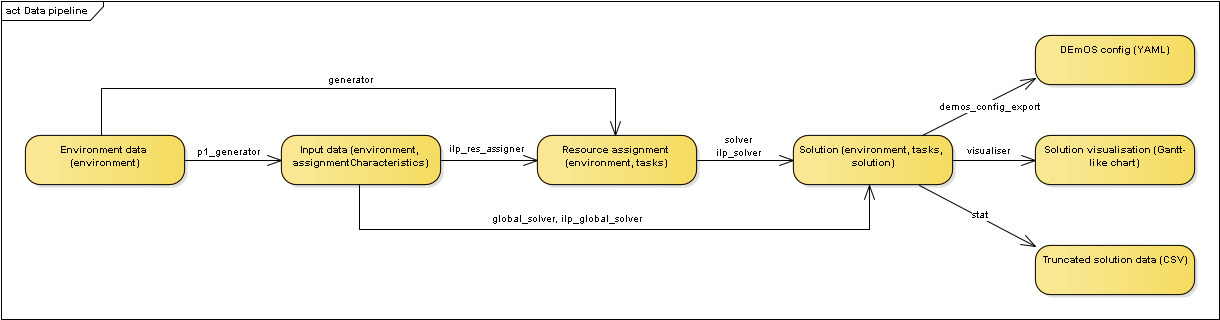
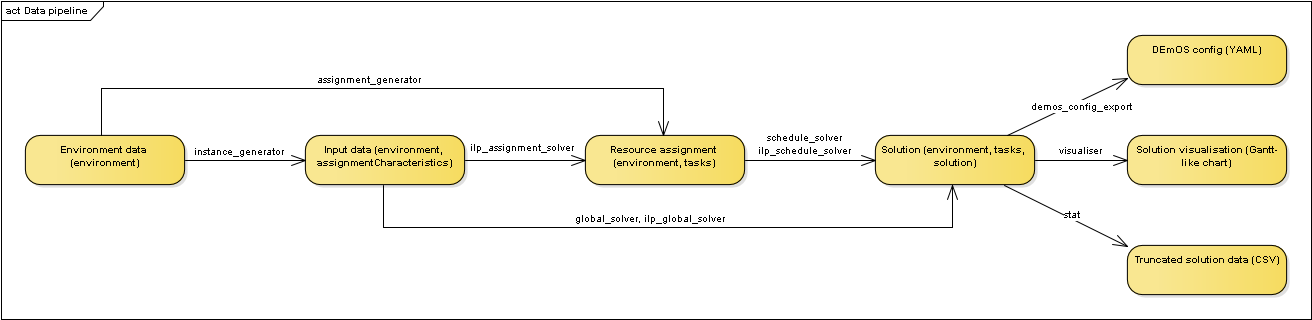
changed tool naming

diff --git a/tools/src/instance_generator/main.cpp b/tools/src/instance_generator/main.cpp
@@ -1,8 +1,9 @@
 #include <iostream>
+#include <fstream>
 
 #include "../common/instance.h"
 #include "../common/arg_parser.h"
-#include "generator.h"
+#include "instance_generator.h"
 
 int main(int argc, char** argv)
 {
@@ -21,14 +22,34 @@ int main(int argc, char** argv)
 		std::cin >> json;
 	}
 
+	std::string benchmark_data_filename = args.get_arg_value("--benchmark-data");
+	if (benchmark_data_filename.empty())
+	{
+		std::cerr << "unable to continue: no benchmark data provided" << std::endl;
+		return EXIT_FAILURE;
+	}
+
+	std::ifstream benchmark_data_file(benchmark_data_filename);
+	if (!benchmark_data_file.is_open())
+	{
+		std::cerr << "unable to continue: cannot open benchmark data file" << std::endl;
+		return EXIT_FAILURE;
+	}
+
 	environment environment;
-	std::vector<task> tasks;
+	std::vector<assignment_characteristic> tasks;
 	try
 	{
 		environment = parse_environment(json);
-		generator g(args, environment);
+		auto benchmark_data = parse_benchmark_data(environment.processors, benchmark_data_file);
+		instance_generator g(args, environment, benchmark_data);
 		tasks = g.generate();
-		write_tasks(json, tasks);
+		write_assignment_characteristics(json, tasks);
+
+		if (!args.is_arg_present("--keep-environment-mf"))
+		{
+			json["environment"]["majorFrameLength"] = compute_major_frame_length(environment, tasks);
+		}
 	}
 	catch (const nlohmann::detail::parse_error& error)
 	{

diff --git a/tools/src/assignment_generator/main.cpp b/tools/src/assignment_generator/main.cpp
@@ -1,9 +1,8 @@
 #include <iostream>
-#include <fstream>
 
 #include "../common/instance.h"
 #include "../common/arg_parser.h"
-#include "p1_generator.h"
+#include "assignment_generator.h"
 
 int main(int argc, char** argv)
 {
@@ -22,34 +21,14 @@ int main(int argc, char** argv)
 		std::cin >> json;
 	}
 
-	std::string benchmark_data_filename = args.get_arg_value("--benchmark-data");
-	if (benchmark_data_filename.empty())
-	{
-		std::cerr << "unable to continue: no benchmark data provided" << std::endl;
-		return EXIT_FAILURE;
-	}
-
-	std::ifstream benchmark_data_file(benchmark_data_filename);
-	if (!benchmark_data_file.is_open())
-	{
-		std::cerr << "unable to continue: cannot open benchmark data file" << std::endl;
-		return EXIT_FAILURE;
-	}
-
 	environment environment;
-	std::vector<assignment_characteristic> tasks;
+	std::vector<task> tasks;
 	try
 	{
 		environment = parse_environment(json);
-		auto benchmark_data = parse_benchmark_data(environment.processors, benchmark_data_file);
-		p1_generator g(args, environment, benchmark_data);
+		assignment_generator g(args, environment);
 		tasks = g.generate();
-		write_assignment_characteristics(json, tasks);
-
-		if (!args.is_arg_present("--keep-environment-mf"))
-		{
-			json["environment"]["majorFrameLength"] = compute_major_frame_length(tasks);
-		}
+		write_tasks(json, tasks);
 	}
 	catch (const nlohmann::detail::parse_error& error)
 	{

diff --git a/tools/src/instance_generator/instance_generator.h b/tools/src/instance_generator/instance_generator.h
@@ -1,5 +1,5 @@
-#ifndef P1_GENERATOR_H
-#define P1_GENERATOR_H
+#ifndef INSTANCE_GENERATOR_H
+#define INSTANCE_GENERATOR_H
 
 #include <random>
 #include <array>
@@ -19,12 +19,12 @@ struct benchmark_data
 	std::unordered_map<std::string, std::unordered_map<std::string, std::string>> benchmark_commands;
 };
 
-class p1_generator
+class instance_generator
 {
 public:
 	std::vector<assignment_characteristic> generate() const;
 
-	p1_generator(const arg_parser& args, const environment& e, const benchmark_data& bd);
+	instance_generator(const arg_parser& args, const environment& e, const benchmark_data& bd);
 
 private:
 	const std::array<int, 2> m_supported_problem_versions{ 1, 2 };
@@ -32,8 +32,8 @@ private:
 	const environment& m_environment;
 	const benchmark_data& m_benchmark_data;
 
-	int m_min_length = 50, m_max_length = 150;
-	int m_task_count = 15;
+	int m_min_length = 40, m_max_length = 160;
+	int m_task_count = 20;
 };
 
 benchmark_data parse_benchmark_data(
@@ -43,4 +43,4 @@ benchmark_data parse_benchmark_data(
 
 int compute_major_frame_length(const environment& env, const std::vector<assignment_characteristic>& assignment_characteristics);
 
-#endif // P1_GENERATOR_H
+#endif // INSTANCE_GENERATOR_H

diff --git a/tools/src/instance_generator/instance_generator.cpp b/tools/src/instance_generator/instance_generator.cpp
@@ -5,7 +5,7 @@
 #include <cmath>
 #include <fstream>
 
-#include "p1_generator.h"
+#include "instance_generator.h"
 
 const static std::string affinity_keyword = "affinity";
 const static std::string benchmark_keyword = "benchmark";
@@ -49,9 +49,9 @@ static inline std::vector<std::string> split_string(std::string s, const std::st
 	return items;
 }
 
-p1_generator::p1_generator(const arg_parser& args,
-		                   const environment& e,
-		                   const benchmark_data& be)
+instance_generator::instance_generator(const arg_parser& args,
+		                  			   const environment& e,
+		                  			   const benchmark_data& be)
 	: m_environment(e), m_benchmark_data(be)
 {
 	args.set_arg_value_int("--min-length", &this->m_min_length);
@@ -67,7 +67,7 @@ p1_generator::p1_generator(const arg_parser& args,
 		throw std::invalid_argument("min task length is greater than max task length");
 }
 
-std::vector<assignment_characteristic> p1_generator::generate() const
+std::vector<assignment_characteristic> instance_generator::generate() const
 {
 	std::vector<assignment_characteristic> tasks;
 	tasks.reserve(m_task_count);
